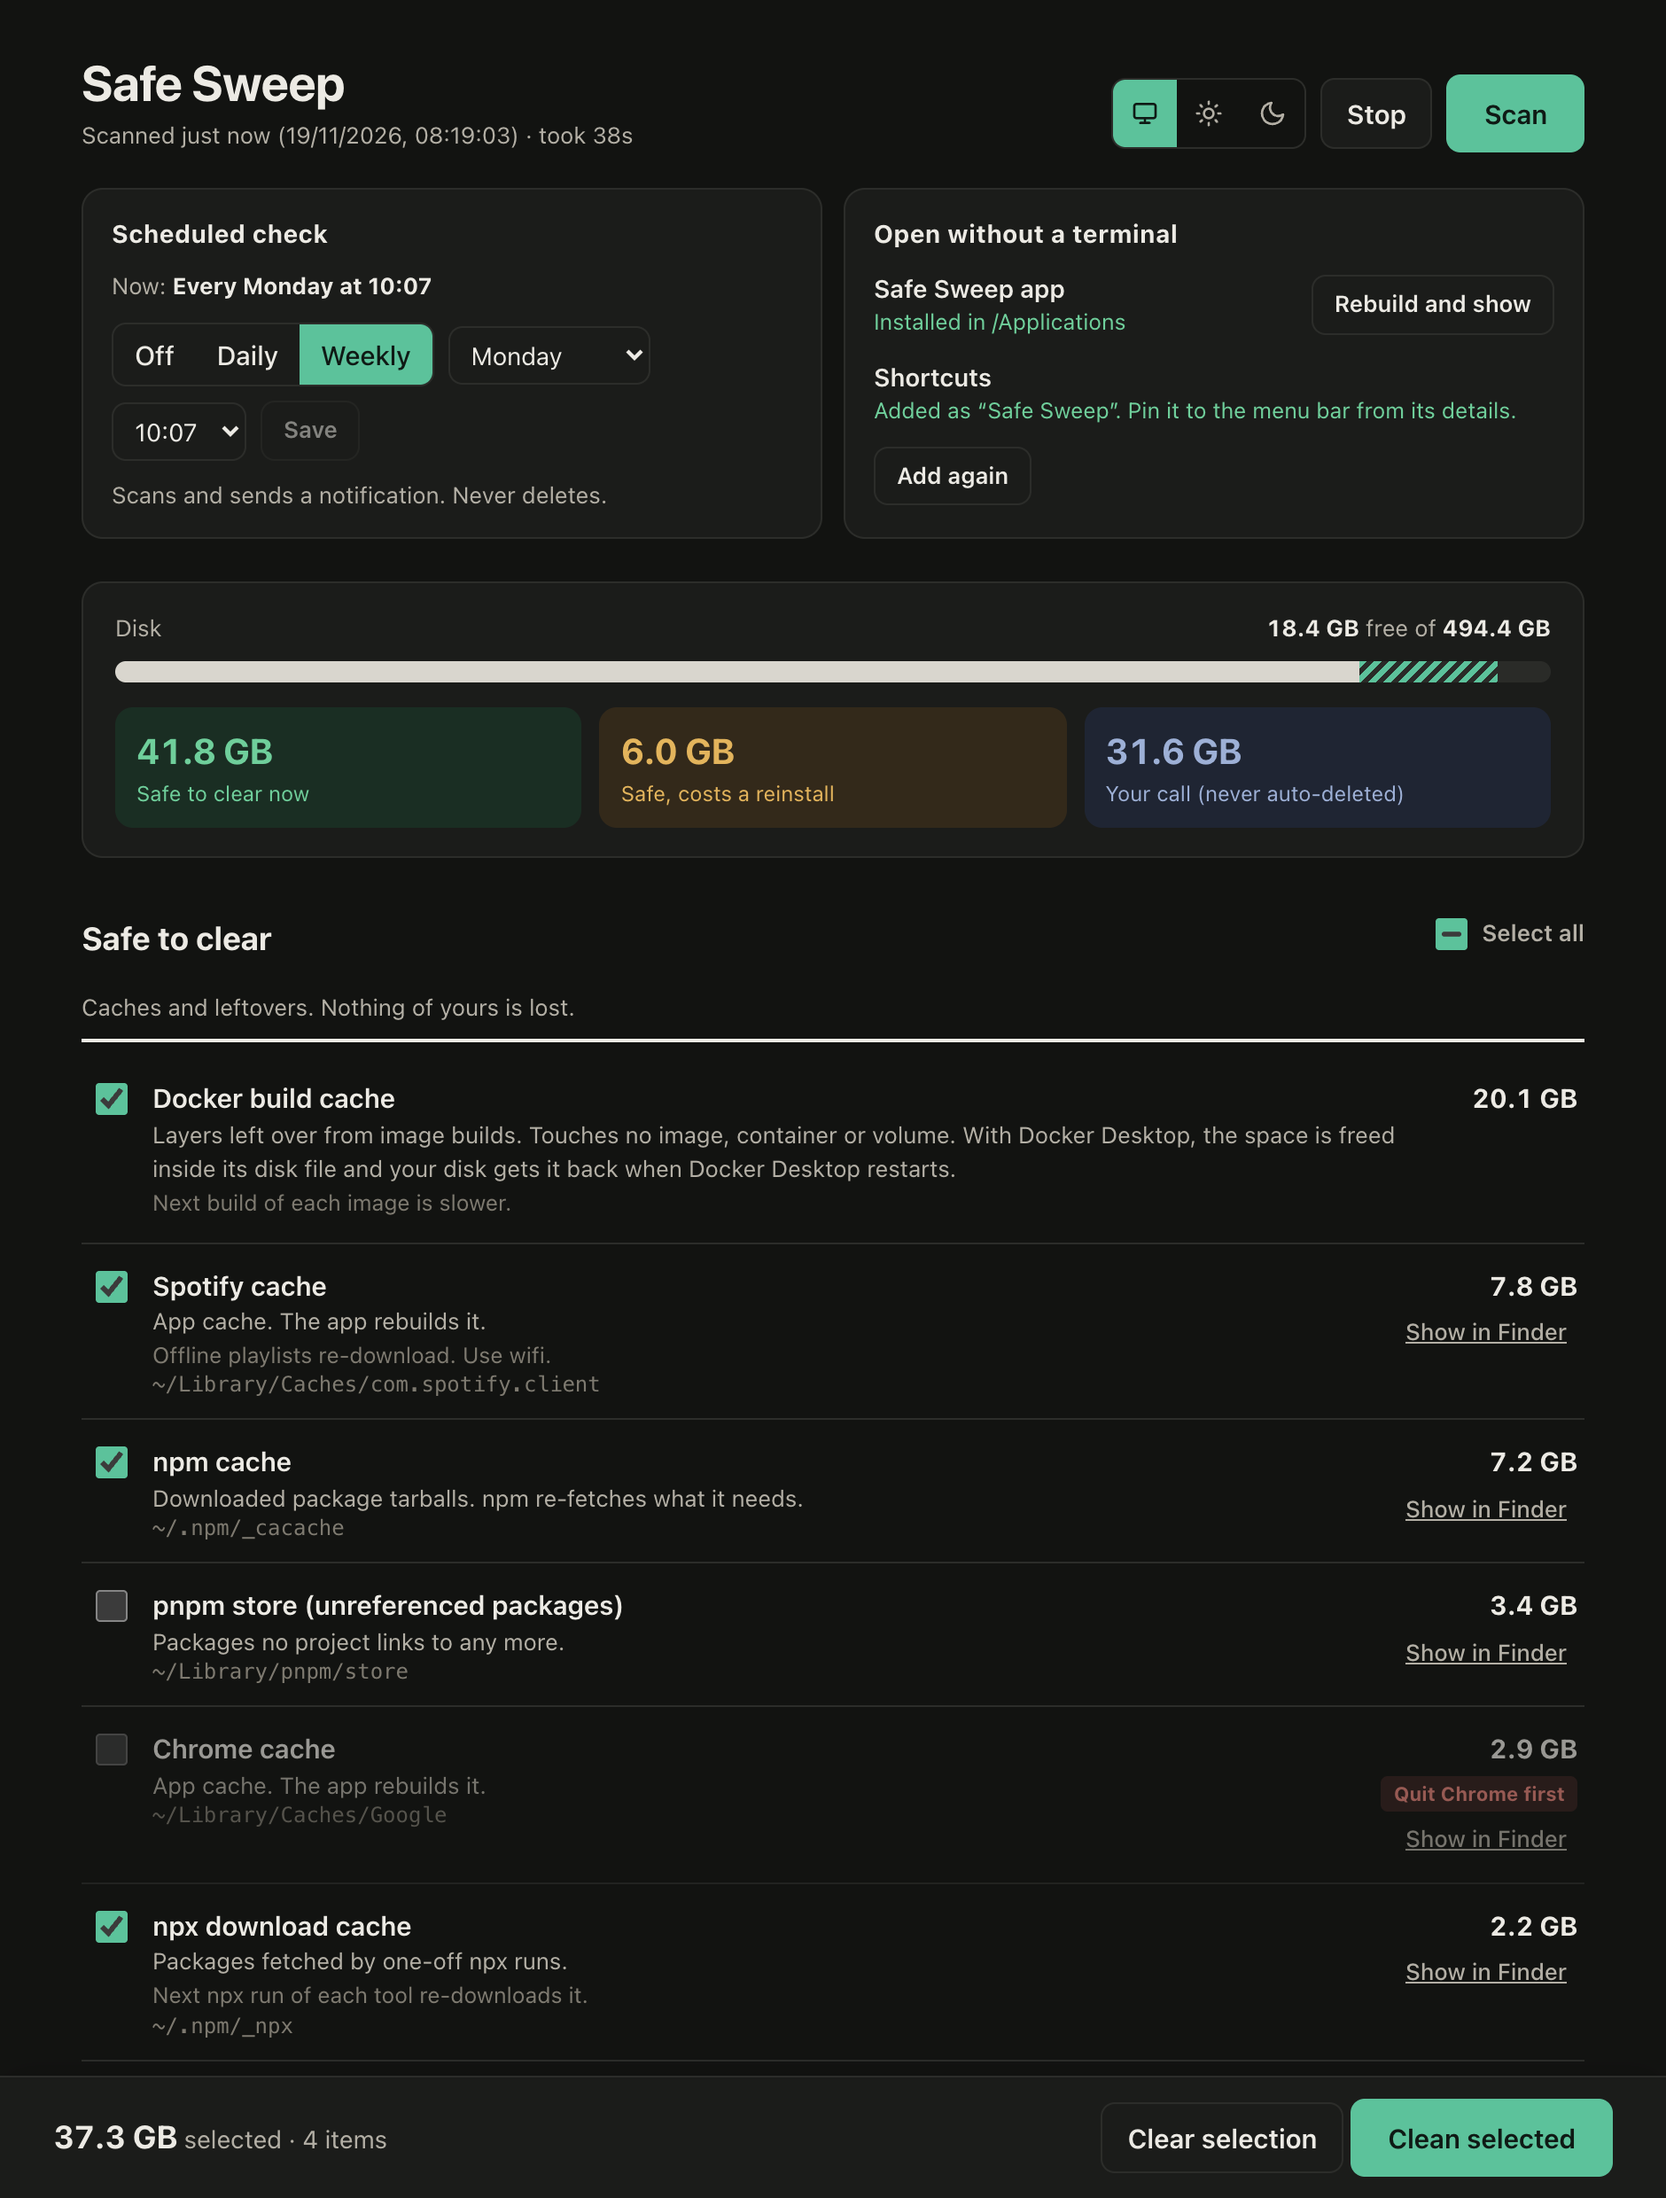
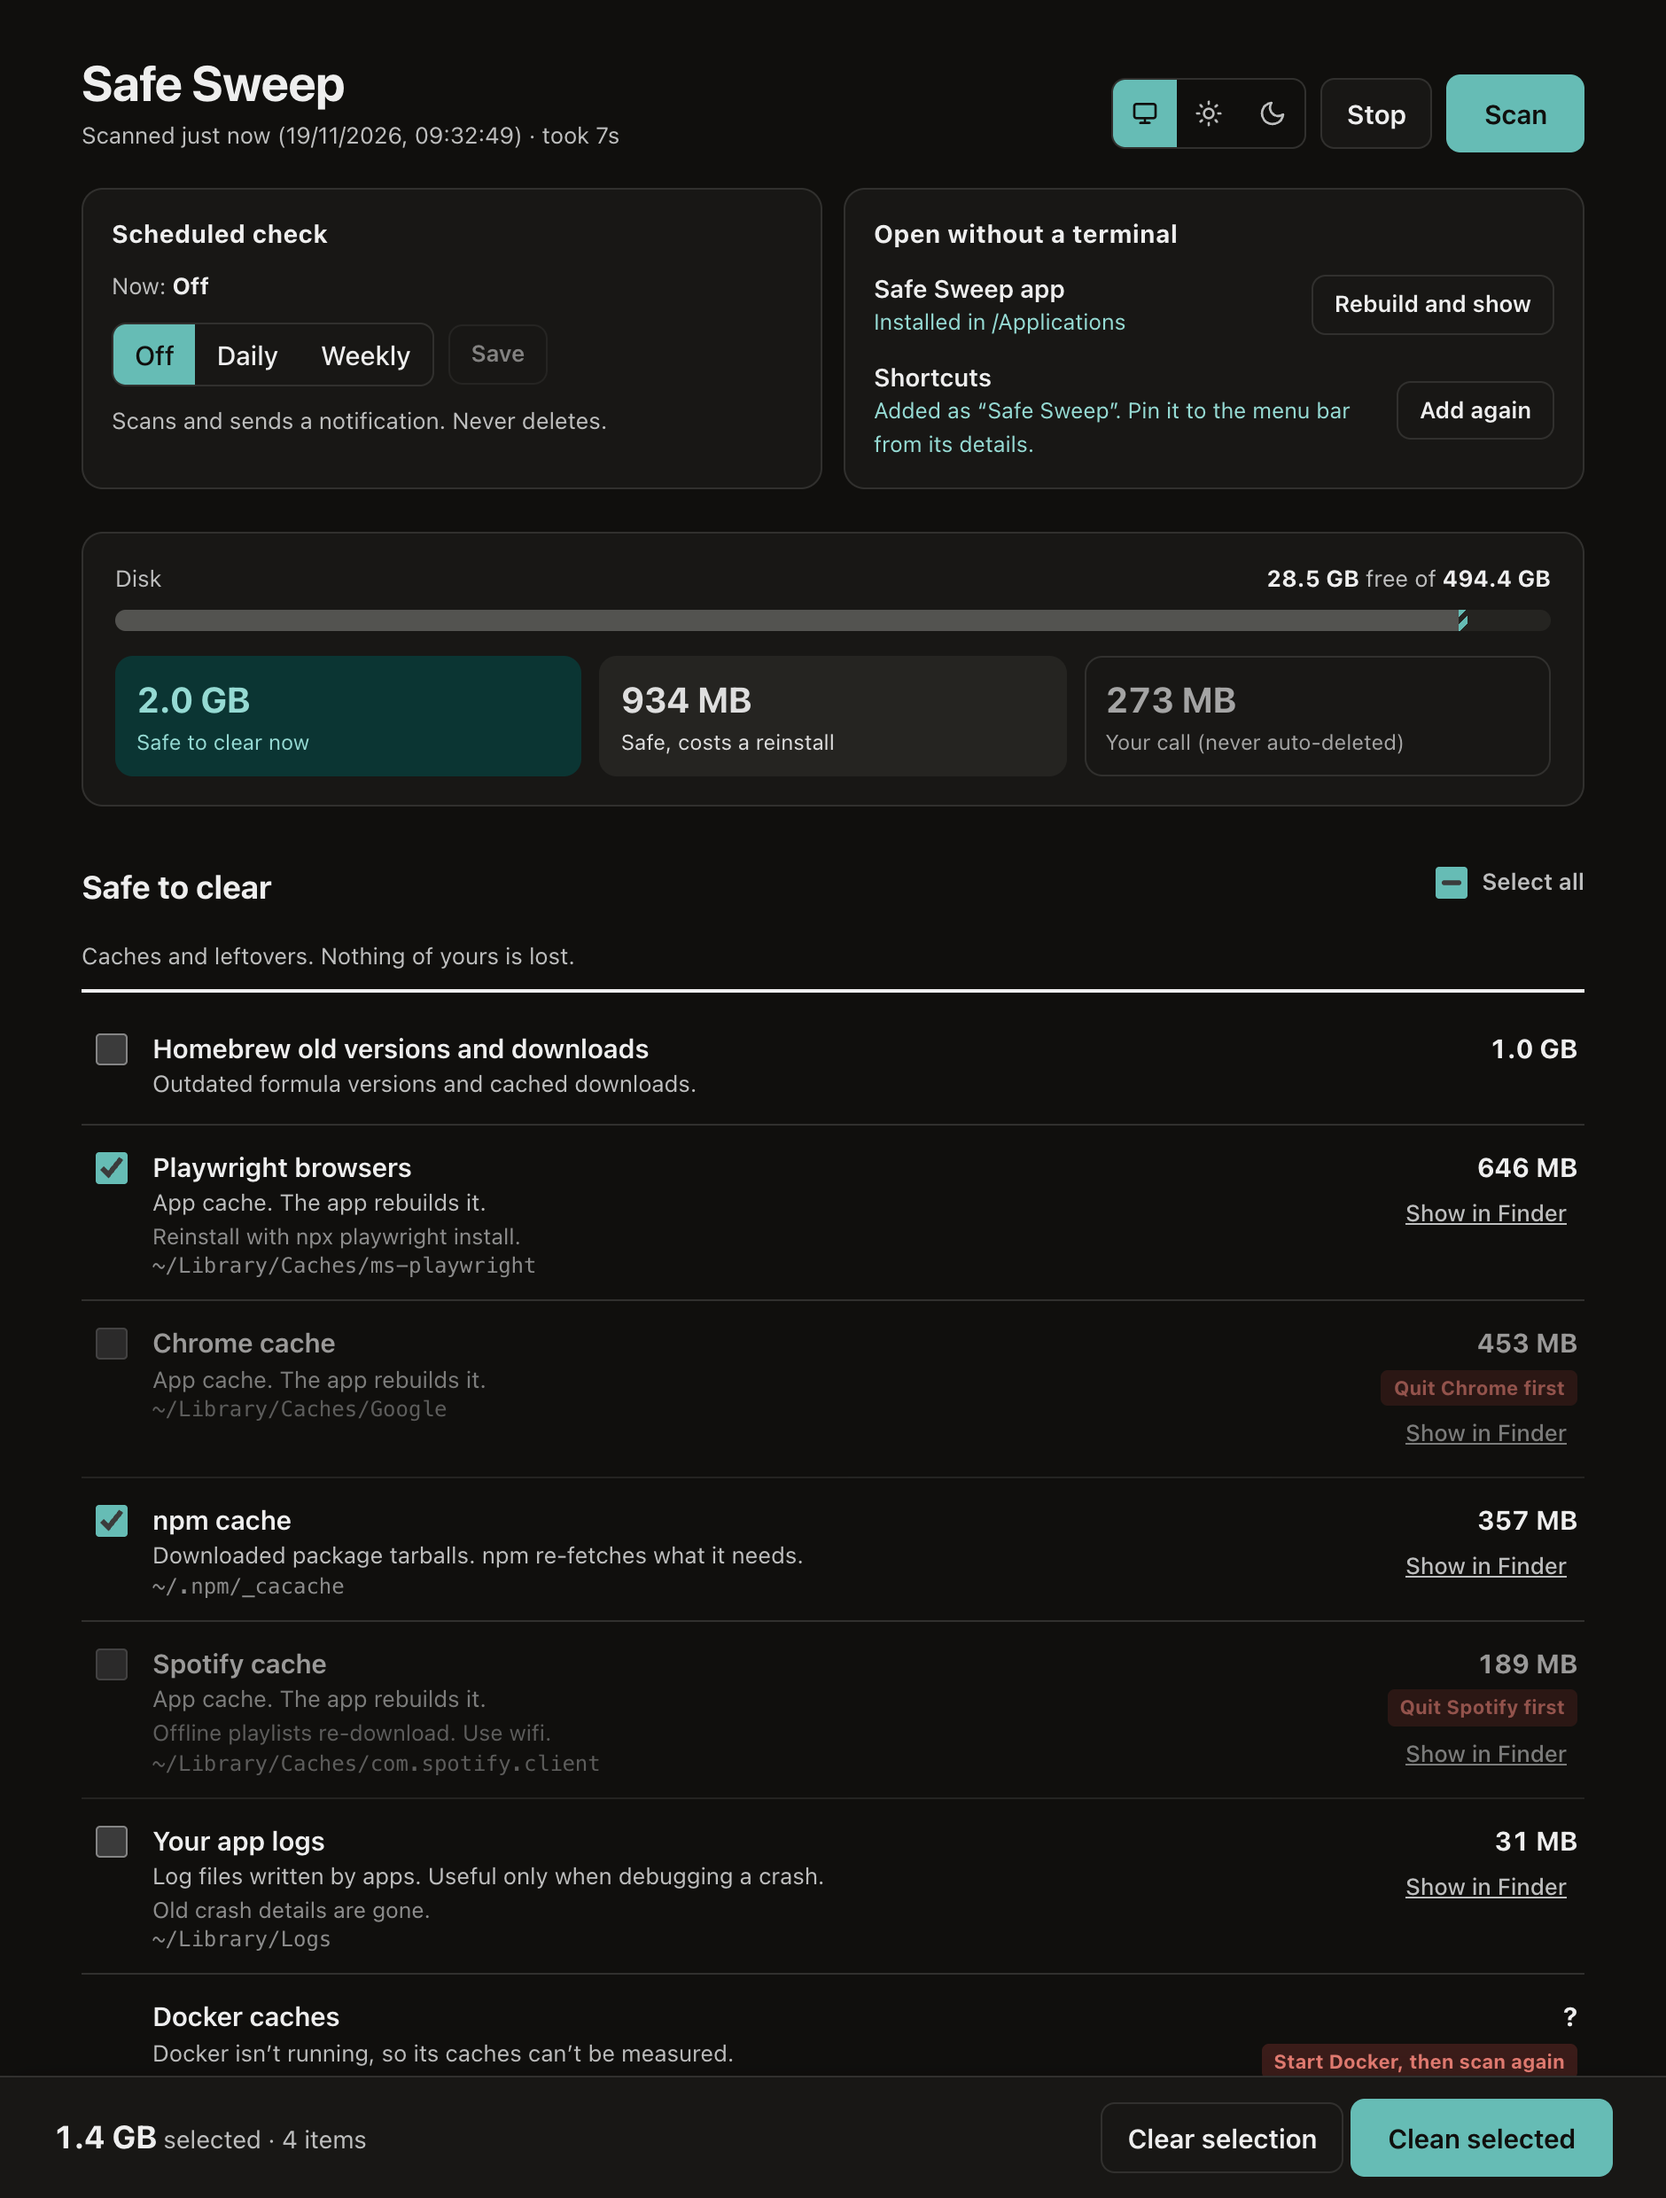
Page: back to the earlier layout in the Ink colours; one-row selection bar on phones; npm run site serves the gh-pages checkout; new screenshots

diff --git a/src/core/ui.html b/src/core/ui.html
@@ -11,27 +11,28 @@
 <style>
   [hidden]{display:none !important}
   :root{
-    --bg:#F3F1EC; --card:#FFFFFF; --ink:#1B1A17; --soft:#5F5B52; --faint:#8F8A7E; --rule:#E2DDD2;
-    --accent:#1F5E4A; --accent-ink:#FFFFFF; --safe:#1F7A4D; --safe-bg:#E1F1E7;
-    --warn:#8A5A00; --warn-bg:#F6EBD3; --info:#4A5A78; --info-bg:#E6EAF2; --bad:#A3362E; --bad-bg:#F6E1DE;
-    --bar:#E7E2D7; --used:#2B2A26;
+    /* Ink colours: white paper, black ink, one teal. Red only for deleting and errors. */
+    --bg:oklch(97% 0.004 100); --card:oklch(99.5% 0.003 100); --ink:oklch(16% 0 0); --soft:oklch(40% 0 0); --faint:oklch(52% 0 0); --rule:oklch(89% 0.004 100);
+    --accent:oklch(50% 0.095 188); --accent-ink:oklch(99.5% 0.003 100); --safe:oklch(40% 0.08 188); --safe-bg:oklch(94.5% 0.03 188);
+    --warn:oklch(28% 0 0); --warn-bg:oklch(93.5% 0.006 100); --info:oklch(44% 0 0); --info-bg:transparent; --bad:oklch(50% 0.17 27); --bad-bg:oklch(95% 0.03 27); --bad-ink:oklch(99.5% 0.003 100);
+    --bar:oklch(93.5% 0.006 100); --used:oklch(78% 0.004 100);
     color-scheme:light;
   }
   /* Dark colours: follow the system unless the page is set to light, or always when set to dark. Keep both blocks in step. */
   @media (prefers-color-scheme: dark){
     :root:not([data-theme=light]){
-      --bg:#121311; --card:#1B1C1A; --ink:#ECEAE4; --soft:#B3AFA5; --faint:#7E7A70; --rule:#2C2D2A;
-      --accent:#5CC29B; --accent-ink:#0F1A15; --safe:#6FCF9B; --safe-bg:#1A2E23;
-      --warn:#E3B45C; --warn-bg:#33291A; --info:#9DB0D6; --info-bg:#1F2533; --bad:#E8857C; --bad-bg:#352120;
-      --bar:#2A2B28; --used:#D9D6CE;
+      --bg:oklch(17% 0.004 100); --card:oklch(20.5% 0.005 100); --ink:oklch(95% 0 0); --soft:oklch(80% 0 0); --faint:oklch(64% 0 0); --rule:oklch(31% 0.004 100);
+      --accent:oklch(74% 0.085 188); --accent-ink:oklch(17% 0.004 100); --safe:oklch(84% 0.07 188); --safe-bg:oklch(30% 0.045 190);
+      --warn:oklch(90% 0 0); --warn-bg:oklch(26% 0.006 100); --info:oklch(72% 0 0); --info-bg:transparent; --bad:oklch(70% 0.13 27); --bad-bg:oklch(27% 0.05 27); --bad-ink:oklch(17% 0.004 100);
+      --bar:oklch(26% 0.006 100); --used:oklch(44% 0.004 100);
       color-scheme:dark;
     }
   }
   :root[data-theme=dark]{
-    --bg:#121311; --card:#1B1C1A; --ink:#ECEAE4; --soft:#B3AFA5; --faint:#7E7A70; --rule:#2C2D2A;
-    --accent:#5CC29B; --accent-ink:#0F1A15; --safe:#6FCF9B; --safe-bg:#1A2E23;
-    --warn:#E3B45C; --warn-bg:#33291A; --info:#9DB0D6; --info-bg:#1F2533; --bad:#E8857C; --bad-bg:#352120;
-    --bar:#2A2B28; --used:#D9D6CE;
+    --bg:oklch(17% 0.004 100); --card:oklch(20.5% 0.005 100); --ink:oklch(95% 0 0); --soft:oklch(80% 0 0); --faint:oklch(64% 0 0); --rule:oklch(31% 0.004 100);
+    --accent:oklch(74% 0.085 188); --accent-ink:oklch(17% 0.004 100); --safe:oklch(84% 0.07 188); --safe-bg:oklch(30% 0.045 190);
+    --warn:oklch(90% 0 0); --warn-bg:oklch(26% 0.006 100); --info:oklch(72% 0 0); --info-bg:transparent; --bad:oklch(70% 0.13 27); --bad-bg:oklch(27% 0.05 27); --bad-ink:oklch(17% 0.004 100);
+    --bar:oklch(26% 0.006 100); --used:oklch(44% 0.004 100);
     color-scheme:dark;
   }
   *{box-sizing:border-box}
@@ -44,7 +45,7 @@
   button:hover:not(:disabled){border-color:var(--faint)}
   button:disabled{opacity:.5;cursor:default}
   button.primary{background:var(--accent);color:var(--accent-ink);border-color:var(--accent);padding:10px 20px}
-  button.danger{background:var(--bad);color:#fff;border-color:var(--bad)}
+  button.danger{background:var(--bad);color:var(--bad-ink);border-color:var(--bad)}
   button.link{border:none;background:none;color:var(--soft);padding:2px 6px;font-weight:500;font-size:13px;text-decoration:underline}
   button:focus-visible{outline:2px solid var(--accent);outline-offset:2px}
 
@@ -58,7 +59,7 @@
   .tot{flex:1;min-width:150px;border-radius:10px;padding:10px 12px}
   .tot .n{font-weight:700;font-size:20px;font-variant-numeric:tabular-nums}
   .tot .l{font-size:12px}
-  .tot.safe{background:var(--safe-bg);color:var(--safe)} .tot.reinstall{background:var(--warn-bg);color:var(--warn)} .tot.review{background:var(--info-bg);color:var(--info)}
+  .tot.safe{background:var(--safe-bg);color:var(--safe)} .tot.reinstall{background:var(--warn-bg);color:var(--warn)} .tot.review{background:var(--info-bg);color:var(--info);box-shadow:inset 0 0 0 1px var(--rule)}
 
   section{margin-top:32px}
   .shead{display:flex;justify-content:space-between;align-items:baseline;gap:12px;border-bottom:2px solid var(--ink);padding-bottom:8px;margin-bottom:8px;flex-wrap:wrap}
@@ -110,23 +111,32 @@
   .stopped{margin-top:24px;background:var(--card);border:1px solid var(--rule);border-radius:12px;padding:24px;text-align:center}
   .stopped b{display:block;font-size:18px;margin-bottom:4px}
   .stopped span{color:var(--soft);font-size:14px}
-  .warnline{color:var(--warn)}
+  .warnline{color:var(--warn);font-weight:600}
   .panels{display:grid;grid-template-columns:1fr 1fr;gap:12px;margin-top:20px}
   .panel{background:var(--card);border:1px solid var(--rule);border-radius:12px;padding:14px 16px;display:flex;flex-direction:column;gap:10px;min-width:0}
   .panel h2{margin:0;font-size:14px;letter-spacing:.02em}
   .panel .status{font-size:13px;color:var(--soft)} .panel .status b{color:var(--ink)}
-  .panel .warn{font-size:12.5px;color:var(--warn)}
+  .panel .warn{font-size:12.5px;color:var(--warn);font-weight:600}
   .controls{display:flex;gap:8px;flex-wrap:wrap;align-items:center}
   select{font:inherit;font-size:14px;border:1px solid var(--rule);border-radius:8px;background:var(--surface,var(--card));color:var(--ink);padding:6px 8px}
   .seg{display:inline-flex;border:1px solid var(--rule);border-radius:8px;overflow:hidden}
   .seg button{border:none;border-radius:0;padding:6px 12px;font-weight:500;background:transparent}
   .seg button[aria-pressed=true]{background:var(--accent);color:var(--accent-ink)}
-  .lrow{display:flex;justify-content:space-between;align-items:center;gap:10px;flex-wrap:wrap}
+  .lrow{display:flex;justify-content:space-between;align-items:center;gap:10px}
+  .lrow > div{min-width:0} .lrow button{flex:none}
   .lrow .lt{font-size:14px;font-weight:600} .lrow .ls{font-size:12.5px;color:var(--soft)}
   .ok{color:var(--safe)}
   .stale{margin-top:16px;background:var(--warn-bg);color:var(--warn);border-radius:10px;padding:10px 14px;font-size:13px}
   button.small{padding:6px 12px;font-size:13px}
   @media (max-width:700px){.panels{grid-template-columns:1fr}}
+  /* On a phone the selection bar is one row: the size over the count, then Clear and Clean selected. */
+  @media (max-width:560px){
+    .foot .in{flex-wrap:nowrap}
+    .foot .sel{min-width:0;line-height:1.25}
+    .foot .sel b{display:block}
+    .foot .acts{display:flex;gap:8px;flex:none}
+    .foot .long{display:none}
+  }
   @media (max-width:560px){.row-item{grid-template-columns:24px minmax(0,1fr)}.right{grid-column:2;align-items:center;flex-direction:row;flex-wrap:wrap}.pill{white-space:normal}}
 </style>
 </head>
@@ -196,9 +206,9 @@
 
 <div class="foot">
   <div class="in">
-    <div class="sel"><b id="selGB">0 GB</b> selected · <span id="selN">0</span> items</div>
-    <div>
-      <button id="clearSel" disabled>Clear selection</button>
+    <div class="sel"><b id="selGB" hidden></b><span id="selText">Nothing selected</span></div>
+    <div class="acts">
+      <button id="clearSel" aria-label="Clear selection" disabled>Clear<span class="long"> selection</span></button>
       <button class="primary" id="cleanBtn" disabled>Clean selected</button>
     </div>
   </div>
@@ -291,8 +301,10 @@ function render() {
 
 function updateFoot() {
   const bytes = data ? data.items.filter((i) => selected.has(i.id)).reduce((a, i) => a + (i.bytes || 0), 0) : 0;
-  $('selGB').textContent = fmt(bytes);
-  $('selN').textContent = selected.size;
+  const n = selected.size;
+  $('selGB').hidden = !n;
+  $('selGB').textContent = n ? fmt(bytes) : '';
+  $('selText').textContent = n ? ` selected · ${n} ${n === 1 ? 'item' : 'items'}` : 'Nothing selected';
   $('cleanBtn').disabled = !selected.size || isStale();
   $('clearSel').disabled = !selected.size;
   // Each list's "Select all" box: ticked when every item that can be cleaned is, dashed when some are.

diff --git a/README.md b/README.md
@@ -7,8 +7,8 @@ safe-sweep scans for caches, build leftovers and dormant `node_modules`, sorts t
 Website: [safesweep.morayodeji.dev](https://safesweep.morayodeji.dev/)
 
 <picture>
-  <source media="(prefers-color-scheme: dark)" srcset="https://raw.githubusercontent.com/d-beloved/safe-sweep/main/docs/screenshot-dark.png?v=3">
-  <img alt="safe-sweep after a scan" src="https://raw.githubusercontent.com/d-beloved/safe-sweep/main/docs/screenshot.png?v=3">
+  <source media="(prefers-color-scheme: dark)" srcset="https://raw.githubusercontent.com/d-beloved/safe-sweep/main/docs/screenshot-dark.png?v=4">
+  <img alt="safe-sweep after a scan" src="https://raw.githubusercontent.com/d-beloved/safe-sweep/main/docs/screenshot.png?v=4">
 </picture>
 <sub>Screenshot uses sample sizes. The page follows your system’s light or dark setting.</sub>
 

diff --git a/CLAUDE.md b/CLAUDE.md
@@ -7,6 +7,7 @@ A local tool that scans a developer's machine for disk space that can be freed s
 - `npm test`: runs `node --test` (guard, Linux platform, symlinked-home and CLI tests). Run it after every change.
 - `npm start` or `safe-sweep`: starts the page at http://127.0.0.1:4777.
 - `safe-sweep scan`: prints the scan without deleting anything. Safe to run while developing.
+- `npm run site`: serves the public site at http://localhost:4780 from `site/`, a checkout of the `gh-pages` branch (`git worktree add site gh-pages`; main ignores it). Commit and push from inside `site/` to publish the site.
 - `SAFE_SWEEP_PLATFORM=darwin HOME=<temp dir> node bin/safe-sweep.js ...`: run against a throwaway home. Use this for any manual test that cleans. Never clean against the real home while developing.
 
 ## Layout
